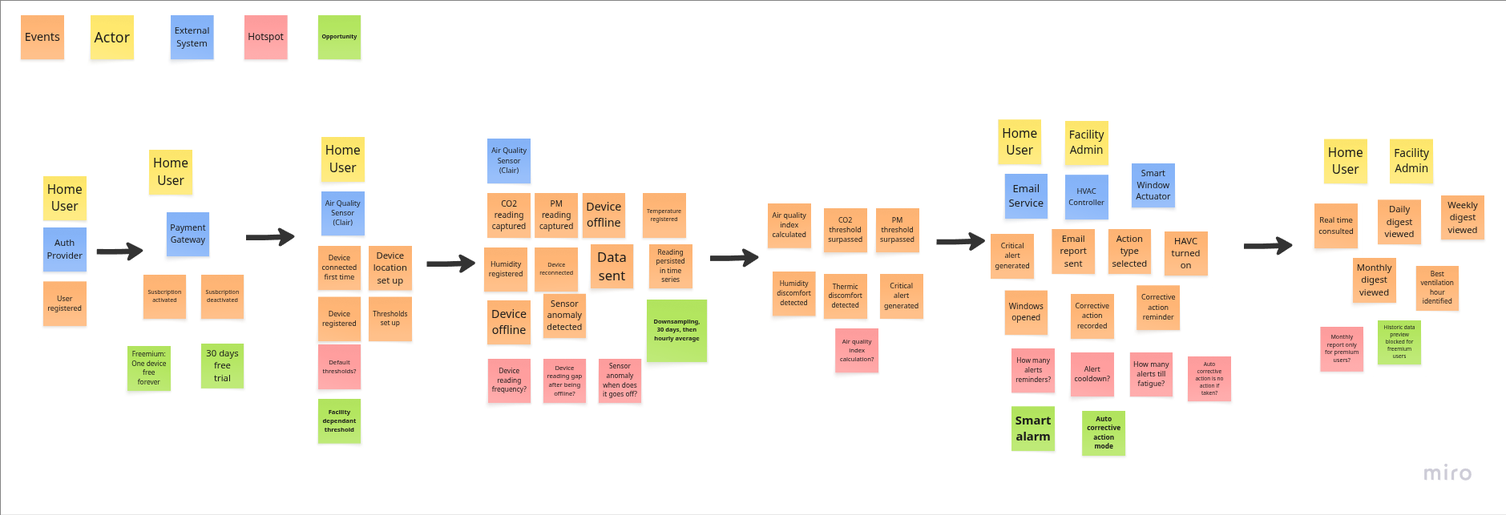
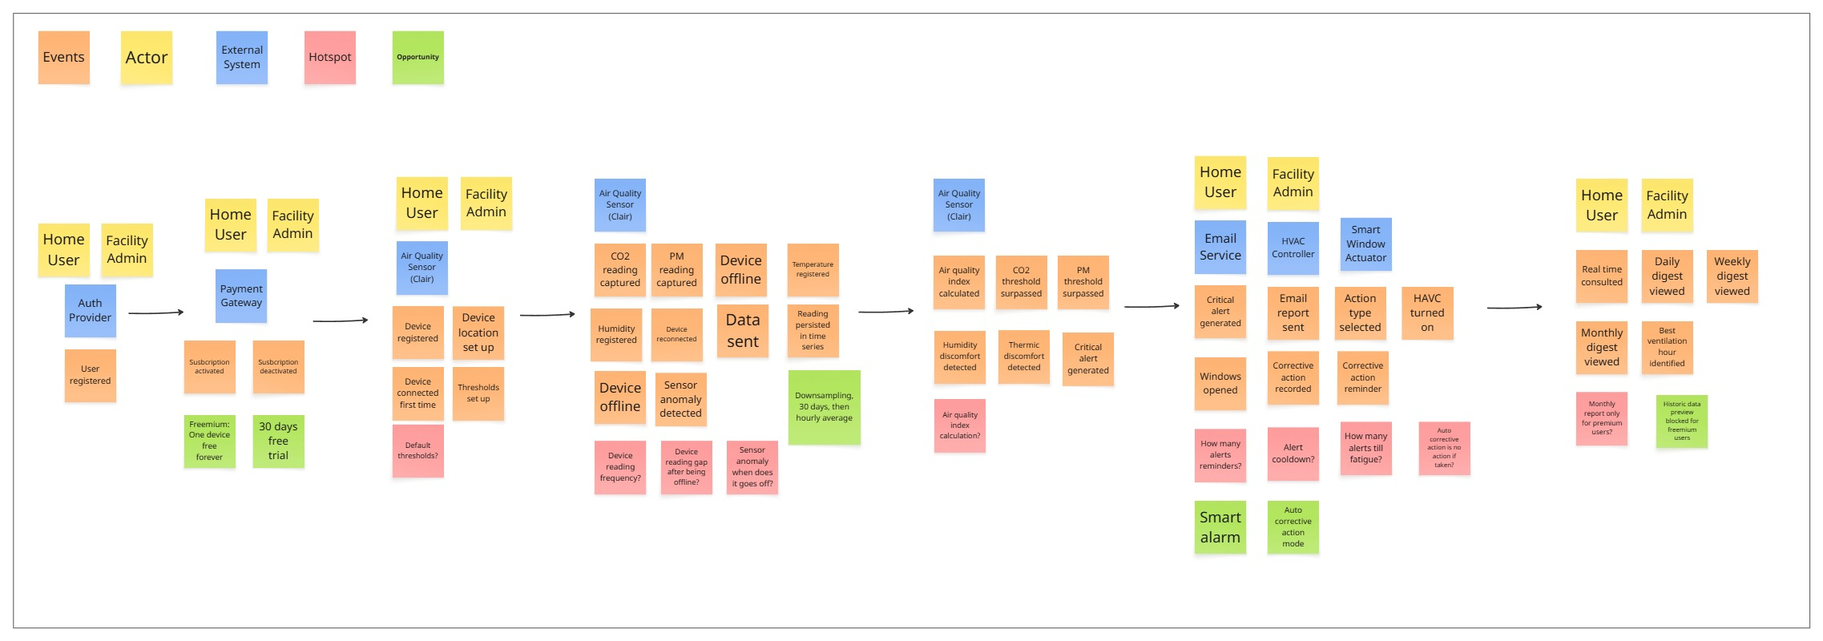
Minor changes in chapter 2

diff --git a/versions.md b/versions.md
@@ -1,30 +1,31 @@
 # Registro de Versiones del Informe
 
-| Versión | Fecha      | Autor                                 | Descripción de modificación                                  |
-| ------- | ---------- | ------------------------------------- | ------------------------------------------------------------ |
-| 0.0.1   | 30/03/2026 | Dante Mateo Aleman Romano             | Realicé la creación de la carátula del informe, siguiendo la estructura establecida en el *Project Statement*. En esta se incluyó la información requerida, como el logo de la universidad, nombre de la institución, carrera y ciclo, código y nombre del curso, NRC, nombre del docente, el título “Informe de Trabajo Final”, así como el nombre del startup y del producto, asegurando una presentación clara y alineada a los lineamientos establecidos. |
+| Versión | Fecha      | Autor                                 | Descripción de modificación                                                                                                                                                                                                                                                                                                                                                                                                                                                                                                            |
+| ------- | ---------- | ------------------------------------- | -------------------------------------------------------------------------------------------------------------------------------------------------------------------------------------------------------------------------------------------------------------------------------------------------------------------------------------------------------------------------------------------------------------------------------------------------------------------------------------------------------------------------------------- |
+| 0.0.1   | 30/03/2026 | Dante Mateo Aleman Romano             | Realicé la creación de la carátula del informe, siguiendo la estructura establecida en el *Project Statement*. En esta se incluyó la información requerida, como el logo de la universidad, nombre de la institución, carrera y ciclo, código y nombre del curso, NRC, nombre del docente, el título “Informe de Trabajo Final”, así como el nombre del startup y del producto, asegurando una presentación clara y alineada a los lineamientos establecidos.                                                                          |
 | 0.0.2   | 01/04/2026 | Dante Mateo Aleman Romano             | Realicé el registro de versiones del informe mediante la creación de una tabla estructurada, siguiendo los lineamientos del *Project Statement*, con el objetivo de llevar un control claro y ordenado de las actualizaciones, cambios y responsables a lo largo del desarrollo del documento.<br />Asimismo, agregué la plantilla correspondiente al Capítulo 1, con la finalidad de que el equipo cuente con una base organizada que facilite su participación y permita iniciar de manera estructurada el desarrollo del contenido. |
-| 0.0.3   | 02/04/2026 | Fabrizio Alessandro Contreras Peralta | Desarrollé la problemática y antecedentes del proyecto, por ello creé añadí las fuentes en la carpeta de bibliografía. Asimismo, llene mi parte en el perfil de integrantes. |
-| 0.0.4   | 02/04/2026 | Neil Curipaco Huayllani               | Definí y desarrollé de los Segmentos Objetivos bajo criterios demográficos, geográficos, psicográficos y conductuales. Siguiendo la plantilla de mi compañero |
-| 0.0.5   | 02/04/2026 | Dante Mateo Aleman Romano             | Redacté y estructuré las Lean UX Assumptions del proyecto, definiendo supuestos de usuario, negocio y funcionalidades con enfoque claro, testable y alineado al problema del proyecto. |
-| 0.0.6   | 03/04/2026 | Ian Macavilca Quispe                  | Elaboré el Lean UX Problem Statement del proyecto, integrando métricas de éxito (KPIs) basadas en estándares internacionales (ASHRAE/OMS) y alineando las necesidades de los usuarios con los objetivos estratégicos de la startup. |
-| 0.0.7   | 03/04/2026 | Josue Paiva                           | Redacte la descripción de la startup y planteé 2 hypothesis statements, centrados en los resultados que obtendrán los 2 segmentos objetivos tras usar Clair durante un determinado periodo de tiempo. |
-| 0.0.8   | 03/04/2026 | Dante Mateo Aleman Romano             | Elaboré el Lean UX Canvas del proyecto, organizando y consolidando los apartados de Business Problem, Users, User Outcomes & Benefits, Business Outcomes, Hypotheses y Solutions, alineándolos con la problemática identificada y los segmentos objetivo del proyecto |
-| 0.0.9   | 03/04/2026 | Neil Curipaco Huayllani               | Corregí los segmentos objetivos haciendo un enfoque mas claro. |
-| 0.1.0   | 04/04/2026 | Fabrizio Alessandro Contreras Peralta | Modifique el Lean UX Canvas para simplificar el enfoque de negocio, asimismo, cambié la descripción del startup para alinearlo más a la visión y misión interna. |
-| 0.1.1   | 05/04/2026 | Neil Curipaco Huayllani               | Agregue la sección estrategias y tácticas frente a competidores según la información obtenida por mi compañero |
-| 0.1.2   | 05/04/2026 | Dante Mateo Aleman Romano             | Elaboré el diseño de las entrevistas correspondientes al Capítulo 2 del informe, definiendo la estructura de preguntas para los segmentos objetivo y organizando su contenido para facilitar el posterior registro, análisis y sustento de las entrevistas dentro del proceso de Requirements Elicitation & Analysis. |
-| 0.1.3   | 05/04/2026 | Ian Macavilca Quispe                  | Realicé el análisis de competidores, identificando a los principales actores directos e indirectos con modelos de negocio similares. |
-| 0.1.4   | 05/04/2026 | Josue Paiva                           | Añadí y mejoré la sección de estrategias y tácticas frente a competidores |
-| 0.1.5   | 06/04/2026 | Fabrizio Alessandro Contreras Peralta | Corrección de preguntas de la entrevista.                    |
-| 0.1.6   | 06/04/2026 | Neil Curipaco Huayllani               | Agregue las descripciones de cada competidor                 |
-| 0.1.7   | 08/04/2026 | Neil Curipaco Huayllani               | Realice la grabación de las entrevistas del segmento objetivo 2 y redacte su descripción y registro de 2 entrevistas del segmento 1 y pose los el link y los tiempos de cada entrevista del vídeo |
-| 0.1.8   | 09/04/2026 | Fabrizio Alessandro Contreras Peralta | Realice la grabación de la tercera entrevista del segmento 1, asimismo redacte la descripción. |
-| 0.1.9   | 09/04/2026 | Dante Mateo Aleman Romano             | Realicé el análisis de las entrevistas de ambos segmentos objetivo, elaborando las tablas de características objetivas y subjetivas en el Capítulo II, identificando patrones clave sobre comportamiento y conocimiento respecto a la calidad del aire interior. |
-| 0.2.0   | 10/04/2026 | Neil Curipaco Huayllani               | Realice la el esquema de user persona para los segmentos 1 y 2 identificando sus metas, motivaciones y frustraciones, así mismo realice el cuadro de User Task Matrix |
-| 0.2.1   | 10/04/2026 | Josue Paiva                           | Elaboré los dos journey maps de cada segmento objetivo, empleando la informacion obtenida de las entrevistas y usando UXPressia |
-| 0.2.2   | 10/04/2026 | Ian Macavilca                         | Realicé los dos Empathy maps de cada segmneto objetivo, empleando la informacion obtenida, las User Personas y usando UXPressia |
-| 0.2.3   | 11/04/2026 | Dante Mateo Aleman Romano             | Desarrollé el Big Picture EventStorming del proyecto y redacté el Ubiquitous Language con los términos técnicos del producto. |
+| 0.0.3   | 02/04/2026 | Fabrizio Alessandro Contreras Peralta | Desarrollé la problemática y antecedentes del proyecto, por ello creé añadí las fuentes en la carpeta de bibliografía. Asimismo, llene mi parte en el perfil de integrantes.                                                                                                                                                                                                                                                                                                                                                           |
+| 0.0.4   | 02/04/2026 | Neil Curipaco Huayllani               | Definí y desarrollé de los Segmentos Objetivos bajo criterios demográficos, geográficos, psicográficos y conductuales. Siguiendo la plantilla de mi compañero                                                                                                                                                                                                                                                                                                                                                                          |
+| 0.0.5   | 02/04/2026 | Dante Mateo Aleman Romano             | Redacté y estructuré las Lean UX Assumptions del proyecto, definiendo supuestos de usuario, negocio y funcionalidades con enfoque claro, testable y alineado al problema del proyecto.                                                                                                                                                                                                                                                                                                                                                 |
+| 0.0.6   | 03/04/2026 | Ian Macavilca Quispe                  | Elaboré el Lean UX Problem Statement del proyecto, integrando métricas de éxito (KPIs) basadas en estándares internacionales (ASHRAE/OMS) y alineando las necesidades de los usuarios con los objetivos estratégicos de la startup.                                                                                                                                                                                                                                                                                                    |
+| 0.0.7   | 03/04/2026 | Josue Paiva                           | Redacte la descripción de la startup y planteé 2 hypothesis statements, centrados en los resultados que obtendrán los 2 segmentos objetivos tras usar Clair durante un determinado periodo de tiempo.                                                                                                                                                                                                                                                                                                                                  |
+| 0.0.8   | 03/04/2026 | Dante Mateo Aleman Romano             | Elaboré el Lean UX Canvas del proyecto, organizando y consolidando los apartados de Business Problem, Users, User Outcomes & Benefits, Business Outcomes, Hypotheses y Solutions, alineándolos con la problemática identificada y los segmentos objetivo del proyecto                                                                                                                                                                                                                                                                  |
+| 0.0.9   | 03/04/2026 | Neil Curipaco Huayllani               | Corregí los segmentos objetivos haciendo un enfoque mas claro.                                                                                                                                                                                                                                                                                                                                                                                                                                                                         |
+| 0.1.0   | 04/04/2026 | Fabrizio Alessandro Contreras Peralta | Modifique el Lean UX Canvas para simplificar el enfoque de negocio, asimismo, cambié la descripción del startup para alinearlo más a la visión y misión interna.                                                                                                                                                                                                                                                                                                                                                                       |
+| 0.1.1   | 05/04/2026 | Neil Curipaco Huayllani               | Agregue la sección estrategias y tácticas frente a competidores según la información obtenida por mi compañero                                                                                                                                                                                                                                                                                                                                                                                                                         |
+| 0.1.2   | 05/04/2026 | Dante Mateo Aleman Romano             | Elaboré el diseño de las entrevistas correspondientes al Capítulo 2 del informe, definiendo la estructura de preguntas para los segmentos objetivo y organizando su contenido para facilitar el posterior registro, análisis y sustento de las entrevistas dentro del proceso de Requirements Elicitation & Analysis.                                                                                                                                                                                                                  |
+| 0.1.3   | 05/04/2026 | Ian Macavilca Quispe                  | Realicé el análisis de competidores, identificando a los principales actores directos e indirectos con modelos de negocio similares.                                                                                                                                                                                                                                                                                                                                                                                                   |
+| 0.1.4   | 05/04/2026 | Josue Paiva                           | Añadí y mejoré la sección de estrategias y tácticas frente a competidores                                                                                                                                                                                                                                                                                                                                                                                                                                                              |
+| 0.1.5   | 06/04/2026 | Fabrizio Alessandro Contreras Peralta | Corrección de preguntas de la entrevista.                                                                                                                                                                                                                                                                                                                                                                                                                                                                                              |
+| 0.1.6   | 06/04/2026 | Neil Curipaco Huayllani               | Agregue las descripciones de cada competidor                                                                                                                                                                                                                                                                                                                                                                                                                                                                                           |
+| 0.1.7   | 08/04/2026 | Neil Curipaco Huayllani               | Realice la grabación de las entrevistas del segmento objetivo 2 y redacte su descripción y registro de 2 entrevistas del segmento 1 y pose los el link y los tiempos de cada entrevista del vídeo                                                                                                                                                                                                                                                                                                                                      |
+| 0.1.8   | 09/04/2026 | Fabrizio Alessandro Contreras Peralta | Realice la grabación de la tercera entrevista del segmento 1, asimismo redacte la descripción.                                                                                                                                                                                                                                                                                                                                                                                                                                         |
+| 0.1.9   | 09/04/2026 | Dante Mateo Aleman Romano             | Realicé el análisis de las entrevistas de ambos segmentos objetivo, elaborando las tablas de características objetivas y subjetivas en el Capítulo II, identificando patrones clave sobre comportamiento y conocimiento respecto a la calidad del aire interior.                                                                                                                                                                                                                                                                       |
+| 0.2.0   | 10/04/2026 | Neil Curipaco Huayllani               | Realice la el esquema de user persona para los segmentos 1 y 2 identificando sus metas, motivaciones y frustraciones, así mismo realice el cuadro de User Task Matrix                                                                                                                                                                                                                                                                                                                                                                  |
+| 0.2.1   | 10/04/2026 | Josue Paiva                           | Elaboré los dos journey maps de cada segmento objetivo, empleando la informacion obtenida de las entrevistas y usando UXPressia                                                                                                                                                                                                                                                                                                                                                                                                        |
+| 0.2.2   | 10/04/2026 | Ian Macavilca                         | Realicé los dos Empathy maps de cada segmneto objetivo, empleando la informacion obtenida, las User Personas y usando UXPressia                                                                                                                                                                                                                                                                                                                                                                                                        |
+| 0.2.3   | 11/04/2026 | Dante Mateo Aleman Romano             | Desarrollé el Big Picture EventStorming del proyecto y redacté el Ubiquitous Language con los términos técnicos del producto.                                                                                                                                                                                                                                                                                                                                                                                                          |
+| 0.2.4   | 13/04/2026 | Fabrizio Alessandro Contreras Peralta | Desarrollé Big Picture EvenStorming, apliqué correcciones menores en el Ubiquitous Language para mayor enfoque y claridad.                                                                                                                                                                                                                                                                                                                                                                                                             |
 
 # Project Report Collaboration Insights
 

diff --git a/chapters/chapter2.md b/chapters/chapter2.md
@@ -240,59 +240,28 @@ El tablero completo del Big Picture Event Storming puede visualizarse en el sigu
 
 ## 2.5. Ubiquitous Language.
 
-| Term                                                         | Definition                                                   |
-| ------------------------------------------------------------ | ------------------------------------------------------------ |
-| Clair                                                        | Producto IoT de Vanana orientado al monitoreo de calidad del aire interior. Incluye un dispositivo físico, mediciones ambientales, alertas, reportes y funciones asociadas a suscripción. |
-| Indoor Air Quality (calidad del aire interior)               | Condición del aire dentro de un ambiente cerrado, evaluada mediante variables como CO2, material particulado, temperatura y humedad. |
-| Air Quality Sensor (sensor de calidad de aire)               | Dispositivo físico Clair que captura mediciones ambientales dentro de un espacio. |
-| Home User (usuario del hogar)                                | Persona que utiliza Clair en un entorno residencial para monitorear y mejorar la calidad del aire de su vivienda. |
-| Facility Admin (administrador de establecimiento)            | Persona responsable de supervisar un espacio comercial, institucional o compartido donde se utiliza Clair. |
-| Payment (pago)                                               | Transacción realizada por el usuario para comprar Clair o mantener activa una suscripción. |
-| HVAC System (sistema HVAC)                                   | Sistema de ventilación, calefacción o aire acondicionado que puede mejorar las condiciones del aire interior. |
-| Smart Window Actuator (actuador de ventana inteligente)      | Dispositivo que permite abrir ventanas de forma automática como acción correctiva ante mala calidad del aire. |
-| Device (dispositivo)                                         | Unidad física de Clair instalada en un espacio para capturar datos ambientales. |
-| Device Registration (registro de dispositivo)                | Proceso mediante el cual un dispositivo Clair queda asociado a una cuenta de usuario. |
-| Device Location (ubicación del dispositivo)                  | Espacio físico donde se instala Clair, como sala, dormitorio, oficina o local comercial. |
-| Threshold (umbral)                                           | Valor límite definido para determinar cuándo una variable ambiental se considera riesgosa o incómoda. |
-| Default Threshold (umbral por defecto)                       | Valor inicial sugerido por Clair para evaluar una variable ambiental sin configuración personalizada. |
-| Facility Dependent Threshold (umbral dependiente del establecimiento) | Umbral ajustado según las condiciones o necesidades del tipo de espacio donde se instala Clair. |
-| Telemetry (telemetría)                                       | Conjunto de mediciones ambientales capturadas por Clair durante su funcionamiento. |
-| Reading (lectura)                                            | Medición individual capturada por el sensor, como CO2, PM, temperatura o humedad. |
-| CO2 Reading (lectura de CO2)                                 | Medición del nivel de dióxido de carbono presente en el ambiente interior. |
-| PM Reading (lectura de material particulado)                 | Medición de partículas suspendidas en el aire, especialmente asociadas a contaminación interior o exterior. |
-| Temperature (temperatura)                                    | Variable ambiental utilizada para evaluar confort térmico dentro del espacio monitoreado. |
-| Humidity (humedad)                                           | Variable ambiental utilizada para evaluar comodidad y posibles condiciones desfavorables del aire interior. |
-| Device Offline (dispositivo desconectado)                    | Estado en el que Clair deja de enviar mediciones por pérdida de conexión o interrupción del servicio. |
-| Device Reconnected (dispositivo reconectado)                 | Evento en el que Clair vuelve a enviar mediciones después de haber estado desconectado. |
-| Sensor Anomaly (anomalía del sensor)                         | Situación en la que las mediciones del dispositivo parecen incorrectas, inconsistentes o fuera del comportamiento esperado. |
-| Air Quality Index (índice de calidad del aire)               | Valor calculado por Clair para resumir el estado general del aire interior en una forma más comprensible para el usuario. |
-| CO2 Threshold Surpassed (umbral de CO2 superado)             | Situación en la que la lectura de CO2 excede el valor considerado aceptable para el ambiente. |
-| PM Threshold Surpassed (umbral de PM superado)               | Situación en la que la lectura de material particulado excede el valor considerado aceptable para el ambiente. |
-| Humidity Discomfort (incomodidad por humedad)                | Condición en la que la humedad del ambiente se encuentra fuera de un rango cómodo o recomendable. |
-| Thermic Discomfort (incomodidad térmica)                     | Condición en la que la temperatura del ambiente genera incomodidad o posible afectación al bienestar. |
-| Critical Alert (alerta crítica)                              | Aviso generado cuando Clair detecta una condición relevante o riesgosa de calidad del aire. |
-| Alert Notification (notificación de alerta)                  | Mensaje enviado al usuario para informar una alerta o evento relevante sobre la calidad del aire. |
-| Email Report (reporte por correo)                            | Comunicación enviada por correo electrónico con información, alerta o resumen relacionado con Clair. |
-| Alert Cooldown (enfriamiento de alerta)                      | Tiempo mínimo que debe pasar antes de volver a enviar una alerta similar al usuario. |
-| Alert Fatigue (fatiga por alertas)                           | Situación en la que el usuario deja de prestar atención a las alertas por recibir demasiadas notificaciones. |
-| Alert Reminder (recordatorio de alerta)                      | Notificación adicional que recuerda una condición pendiente o no resuelta. |
-| Smart Alarm (alarma inteligente)                             | Mejora propuesta para alertar de forma más útil, evitando exceso de notificaciones y considerando el contexto del usuario. |
-| Corrective Action (acción correctiva)                        | Medida sugerida o ejecutada por Clair para mejorar las condiciones del aire interior. |
-| Action Type (tipo de acción)                                 | Clasificación de la acción correctiva seleccionada, como encender HVAC o abrir ventanas. |
-| Auto Corrective Action Mode (modo de acción correctiva automática) | Función que permite a Clair ejecutar acciones correctivas sin intervención manual del usuario. |
-| HVAC Turned On (HVAC encendido)                              | Acción correctiva en la que el sistema de ventilación, calefacción o aire acondicionado se activa para mejorar el ambiente. |
-| Windows Opened (ventanas abiertas)                           | Acción correctiva en la que se abren ventanas mediante un actuador inteligente para mejorar la ventilación. |
-| Real Time Consultation (consulta en tiempo real)             | Revisión del estado actual de la calidad del aire por parte del usuario. |
-| Daily Digest (resumen diario)                                | Vista o reporte que resume el comportamiento del aire durante un día. |
-| Weekly Digest (resumen semanal)                              | Vista o reporte que resume el comportamiento del aire durante una semana. |
-| Monthly Digest (resumen mensual)                             | Vista o reporte que resume el comportamiento del aire durante un mes. |
-| Best Ventilation Hour (mejor hora de ventilación)            | Momento recomendado por Clair para ventilar el espacio con mejores resultados esperados. |
-| Historical Data (datos históricos)                           | Información acumulada de lecturas y eventos pasados del dispositivo. |
-| Historic Data Preview (vista previa de datos históricos)     | Acceso limitado a datos pasados que puede mostrarse a usuarios freemium para incentivar mejora de plan. |
-| Freemium                                                     | Modelo en el que el usuario puede utilizar una versión gratuita limitada de Clair. |
-| Free Trial (prueba gratuita)                                 | Periodo gratuito, por ejemplo 30 días, en el que el usuario puede acceder a funciones antes de pagar. |
-| Subscription (suscripción)                                   | Relación comercial que habilita funciones continuas de Clair, como reportes, historial y automatizaciones. |
-| Subscription Activation (activación de suscripción)          | Evento en el que la suscripción queda habilitada para el usuario. |
-| Subscription Deactivation (desactivación de suscripción)     | Evento en el que la suscripción deja de estar activa.        |
-| Premium User (usuario premium)                               | Usuario que cuenta con una suscripción activa o un plan con funciones avanzadas. |
-| Freemium User (usuario freemium)                             | Usuario que utiliza Clair con acceso gratuito y funciones limitadas. |
+| Term                                                                  | Definition                                                                                                                  |
+| --------------------------------------------------------------------- | --------------------------------------------------------------------------------------------------------------------------- |
+| Clair                                                                 | Producto IoT orientado al monitoreo de calidad del aire interior.                                                           |
+| Air Quality Sensor (sensir de calidad del aire)                       | Dispositivo físico Clair que captura mediciones ambientales dentro de un espacio.                                           |
+| Home User (usuario del hogar)                                         | Persona que utiliza Clair en un entorno residencial para monitorear y mejorar la calidad del aire.                          |
+| Facility Admin (administrador de establecimiento)                     | Persona responsable de supervisar un espacio comercial, institucional o compartido donde se utiliza Clair.                  |
+| HVAC System (sistema HVAC)                                            | Sistema de ventilación, calefacción o aire acondicionado.                                                                   |
+| Smart Window Actuator (actuador de ventana inteligente)               | Dispositivo que permite abrir ventanas de forma automática.                                                                 |
+| Device (dispositivo)                                                  | Unidad física de Clair instalada en un espacio.                                                                             |
+| Threshold (umbral)                                                    | Valor límite definido para determinar cuándo una variable ambiental se considera riesgosa o incómoda.                       |
+| Default Threshold (umbral por defecto)                                | Valor inicial sugerido por Clair para evaluar una variable ambiental sin configuración personalizada.                       |
+| Facility Dependent Threshold (umbral dependiente del establecimiento) | Umbral ajustado según las condiciones o necesidades del tipo de espacio donde se instala Clair.                             |
+| Telemetry (telemetría)                                                | Conjunto de mediciones ambientales capturadas por Clair durante su funcionamiento.                                          |
+| Reading (lectura)                                                     | Medición individual capturada por el sensor, como CO2, PM, temperatura o humedad.                                           |
+| Sensor Anomaly (anomalía del sensor)                                  | Situación en la que las mediciones del dispositivo parecen incorrectas, inconsistentes o fuera del comportamiento esperado. |
+| Air Quality Index (índice de calidad del aire)                        | Valor calculado por Clair para resumir el estado general del aire interior en una forma más comprensible para el usuario.   |
+| Critical Alert (alerta crítica)                                       | Aviso generado cuando Clair detecta una condición relevante o riesgosa de calidad del aire.                                 |
+| Alert Cooldown (enfriamiento de alerta)                               | Tiempo mínimo que debe pasar antes de volver a enviar una alerta similar al usuario.                                        |
+| Alert Fatigue (fatiga por alertas)                                    | Situación en la que el sistema deja de enviar notificaciones.                                                               |
+| Alert Reminder (recordatorio de alerta)                               | Notificación adicional que recuerda una condición pendiente o no resuelta.                                                  |
+| Corrective Action (acción correctiva)                                 | Medida sugerida o ejecutada por Clair para mejorar las condiciones del aire interior.                                       |
+| Real Time Consultation (consulta en tiempo real)                      | Revisión del estado actual de la calidad del aire por parte del usuario.                                                    |
+| Digest (resumen diario)                                               | Vista o reporte que resume el comportamiento del aire.                                                                      |
+| Premium User (usuario premium)                                        | Usuario que cuenta con una suscripción activa o un plan con funciones avanzadas.                                            |
+| Freemium User (usuario freemium)                                      | Usuario que utiliza Clair con acceso gratuito y funciones limitadas.                                                        |
